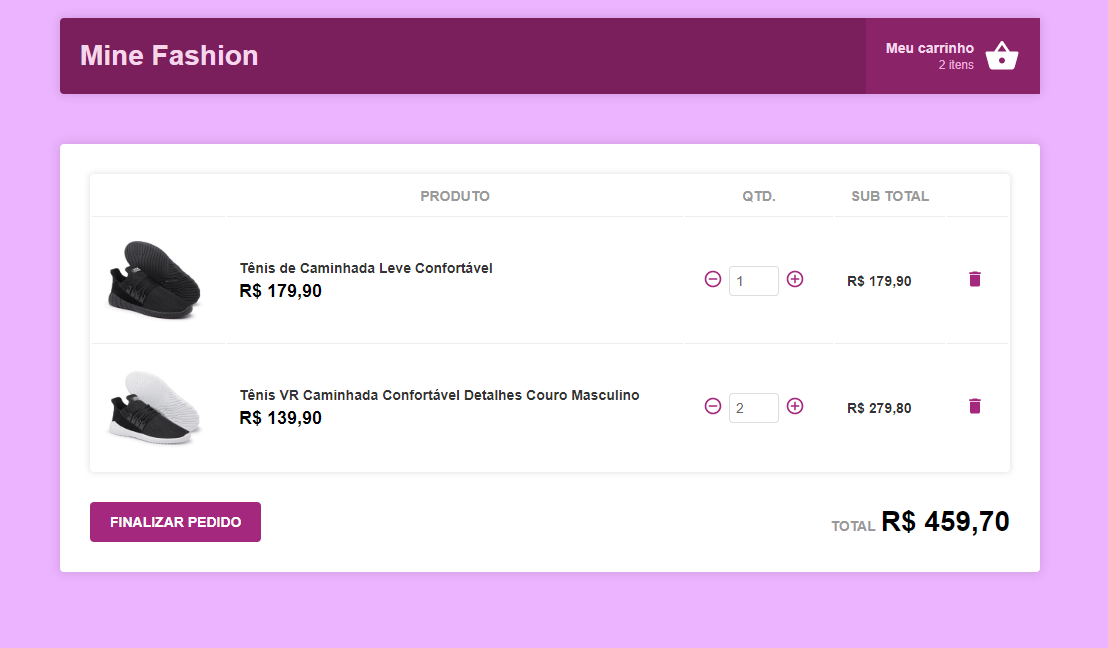
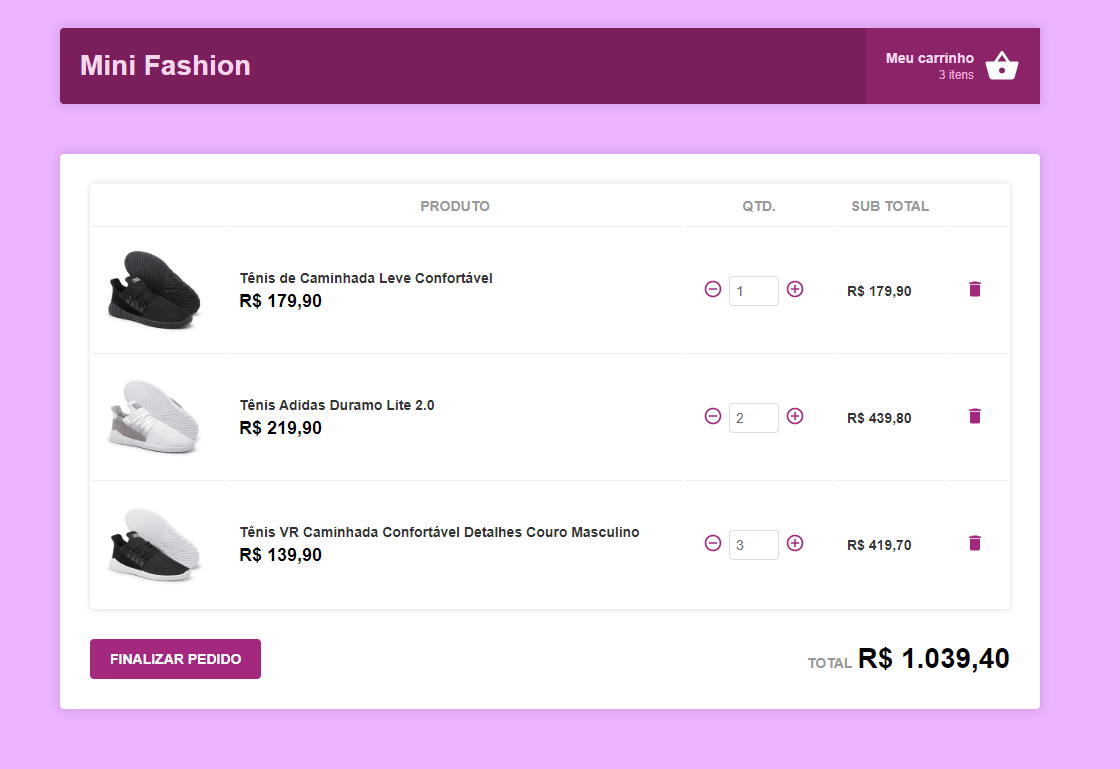
UPDATE README / UPDATE TITLE / HEADER

diff --git a/public/index.html b/public/index.html
@@ -24,7 +24,7 @@
       work correctly both with client-side routing and a non-root public URL.
       Learn how to configure a non-root public URL by running `npm run build`.
     -->
-    <title>Mine Fashion</title>
+    <title>Mini Fashion</title>
   </head>
   <body>
     <noscript>You need to enable JavaScript to run this app.</noscript>

diff --git a/src/Components/Header/index.js b/src/Components/Header/index.js
@@ -18,7 +18,7 @@ function Header({cartSize}) {
     return (
         <Container>
             <Link to="/">
-                <h1>Mine Fashion</h1>
+                <h1>Mini Fashion</h1>
             </Link>
             <Cart to="/cart">
                 <div>
